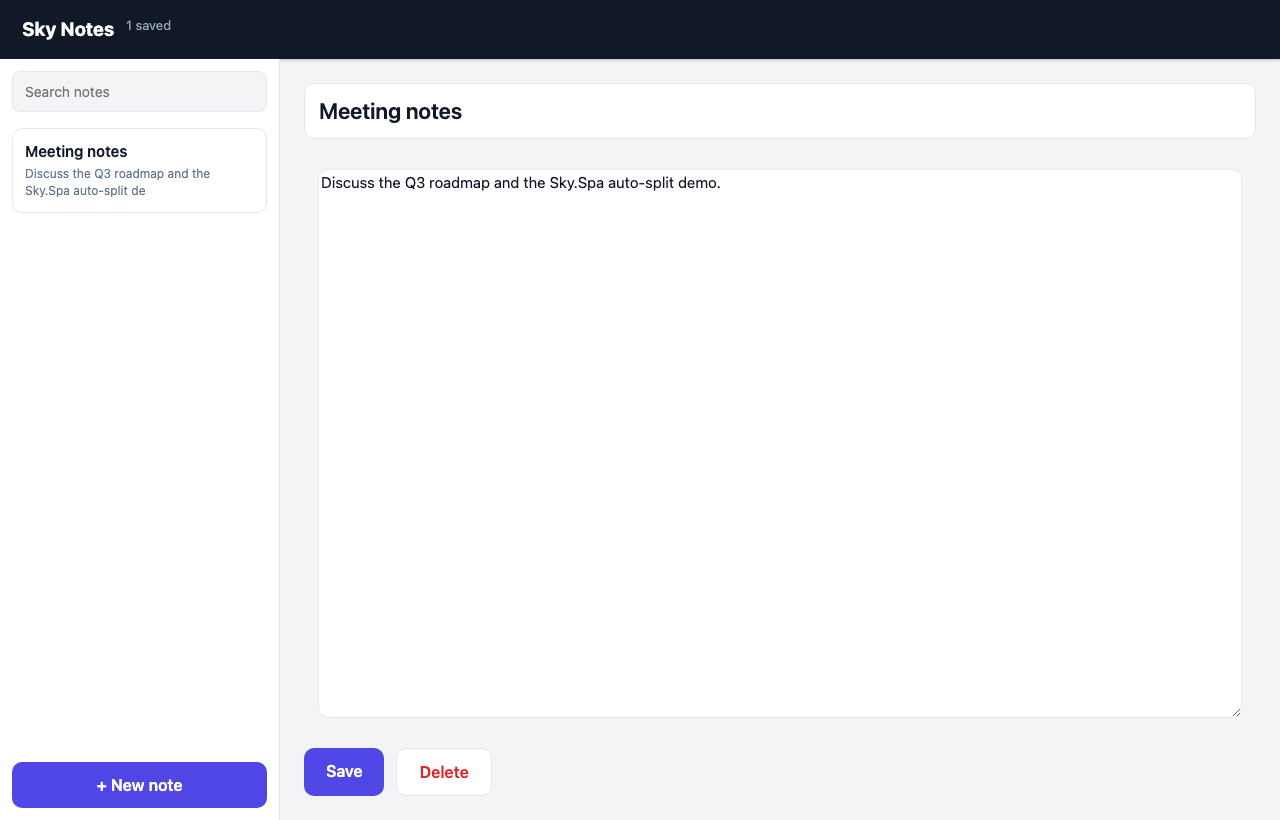
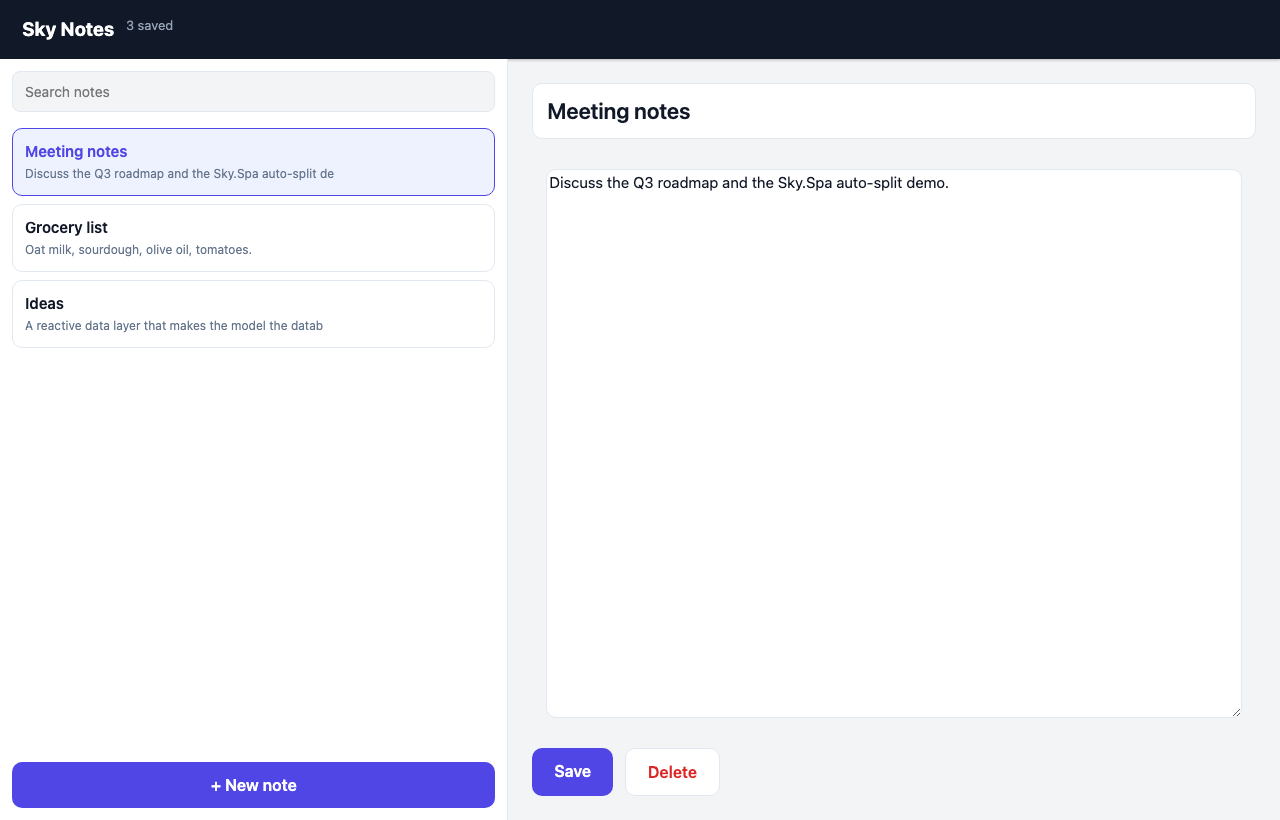
refine(example): 62-spa-notes — fill-portion two-pane, no breakpoint gutter
The mobile sidebar left a side gutter: Ui.breakpoint wraps its child in a <div>
and the media rule sizes the WRAPPER, so the 280px sidebar stayed 280px inside a
full-width band. Replace the fixed-width sidebar + mobile breakpoint with a
wrappedRow of two fill-PORTION panes (sidebar 1 : editor 3), each with a
min-width. Desktop: mins fit, portions split ~25/75. Phone: the two mins exceed
the viewport so the row flex-wraps, and each pane — still a fill portion — grows
to the full width of its own line. One layout, no @media, no gutter. Verified
web (1280 + 390) and iOS simulator.

diff --git a/examples/62-spa-notes/README.md b/examples/62-spa-notes/README.md
@@ -3,8 +3,10 @@
 A real-world **Notes / knowledge-base** app: a dark header bar, a scrollable
 sidebar of note cards with live search, and a full editor (title + growing
 textarea + Save/Delete). Rich `Std.Ui` throughout — `vh`/`fill`/`px`/`minimum`
-sizing, `scrollbarY` panels, a real `Ui.breakpoint Ui.mobile` responsive layout,
-plus colours/borders/rounding/shadow — with **SQLite persistence**.
+sizing, `scrollbarY` panels, and a `wrappedRow` of two fill-portion panes that
+splits ~25/75 on a desktop and stacks full-width on a phone (one layout, no
+`@media` — the wrapped panes fill their own line), plus
+colours/borders/rounding/shadow — with **SQLite persistence**.
 
 This is the **auto-split tier**. You write **ONE** Sky.Spa project with effects
 inline; `sky spa-split` derives the wasm frontend, the native SQLite backend, and
